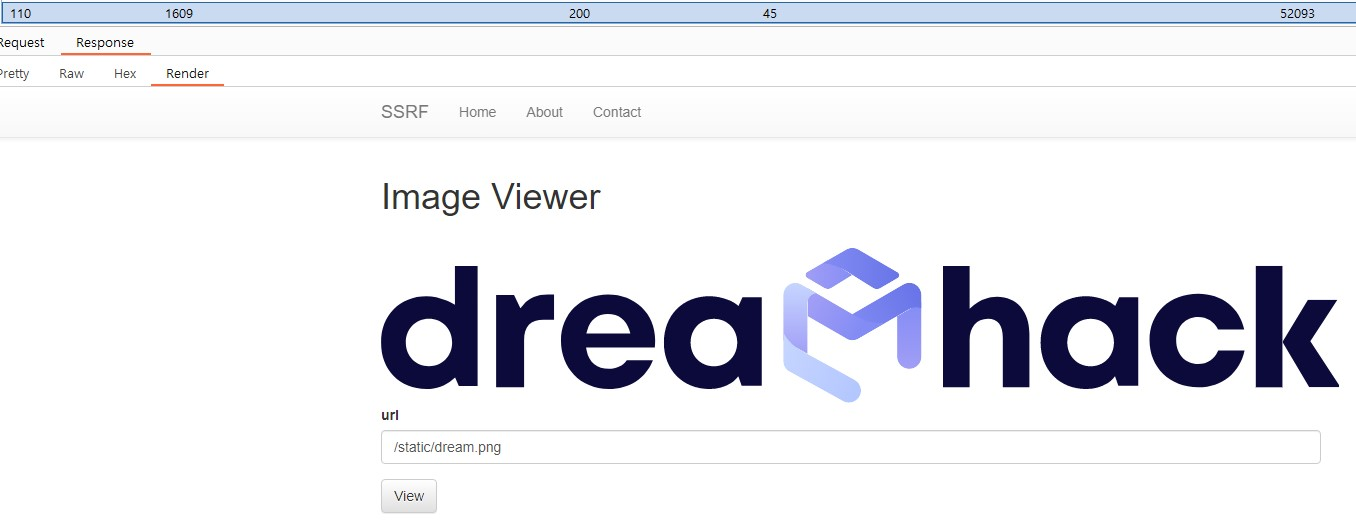
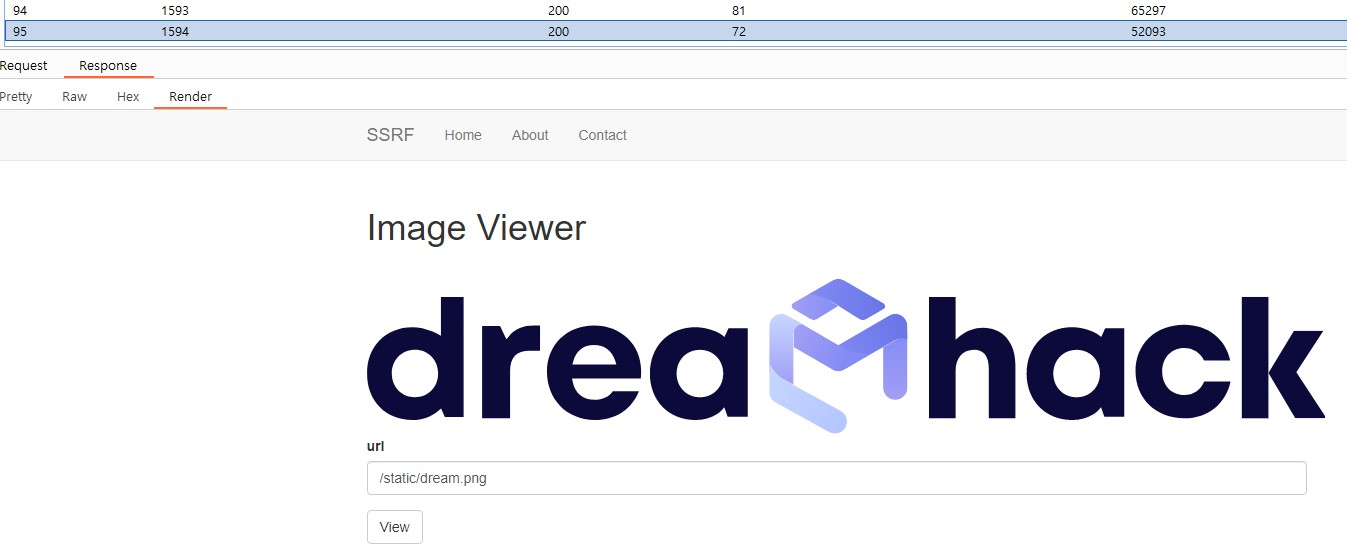
web-ssrf 풀이 내용 추가

diff --git a/Web Hacking/8. Server Side Request Forgery (SSRF)/2. web-ssrf/풀이.md b/Web Hacking/8. Server Side Request Forgery (SSRF)/2. web-ssrf/풀이.md
@@ -1,5 +1,7 @@
 문제는 **flask로 작성된 image viewer 서비스 입니다. SSRF 취약점을 이용해 플래그를 획득하세요. 플래그는 /app/flag.txt에 있습니다.** 입니다.  
-우선 코드를 보겠습니다.  
+
+다음은 문제에서 주어진 코드이다.  
+
 ```python
 #!/usr/bin/python3
 from flask import (
@@ -54,7 +56,6 @@ local_port = random.randint(1500, 1800)
 local_server = http.server.HTTPServer(
     (local_host, local_port), http.server.SimpleHTTPRequestHandler
 )
-print(local_port)
 
 
 def run_local_server():
@@ -65,14 +66,27 @@ threading._start_new_thread(run_local_server, ())
 
 app.run(host="0.0.0.0", port=8000, threaded=True)
 ```
+
 <img src="1.jpg"> <img src="2.jpg">  
-1. '/' : index.html 을 render 하는 엔드포인트
-2. 'img_viewer' : 경로를 입력받아서 **파일이 있으면 보여주고**, **없거나 일정시간이 지났지만 응답이 없다**면 **error.png**를 띄운다.  
+
+# (1) /
+
+index.html 을 render 하는 엔드포인트  
+
+# (2) img_viewer
+
+경로를 입력받아서 **파일이 있으면 보여주고**, **없거나 일정시간이 지났지만 응답이 없다**면 **error.png**를 띄운다.  
 
 <img src="3.jpg"> <img src="4.jpg">  
+
 다음과 같이 파일이 있는 경우, 왼쪽처럼 보여주고, 없다면 error.png를 띄운다.  
 
-처음에 문제를 풀다가 어려워서 막막했지만, 코드를 보면서 뜬금없는 코드를 봤다.  
+처음에 문제를 풀다가 어려워서 막막했다. 그러나 고민을 하면서 생각한 가설이 있었다.  
+
+우선 문제에서 부터 **SSRF 취약점**에 대한 문제였기 때문에, 일단 img_viewer 에 **어떠한 url** 을 넣어서 flag를 출력하게 하는 방식이라고 생각했다.  
+
+그런데 코드를 보면서 뜬금없는 코드를 봤다.  
+
 ```python
 local_host = "127.0.0.1"
 local_port = random.randint(1500, 1800)
@@ -80,42 +94,50 @@ local_server = http.server.HTTPServer(
     (local_host, local_port), http.server.SimpleHTTPRequestHandler
 )
 ```
-이 코드를 봤을 때, local_host와 port 를 지정하는 것을 봐서, 저 **url에 있는 flag.txt** 를 찾아야한다고 생각했다.  
+
+이 코드를 봤을 때, local_host와 port 를 지정하는 것을 봐서, 저 **지정한 host, port에 있는 flag.txt** 를 찾아야한다고 생각했다.  
+
 ```python
 elif ("localhost" in urlp.netloc) or ("127.0.0.1" in urlp.netloc):
     data = open("error.png", "rb").read()
     img = base64.b64encode(data).decode("utf8")
     return render_template("img_viewer.html", img=img)
 ```
-위의 코드를 보고, **localhost 나 127.0.0.1** 을 입력받은 경우, 그냥 **error.png를 띄우는 것**을 보고 확신했다.  
-결론적으로 **port 번호를 brute force를 통해 알아내고**, **127.0.0.1 이나 localhost 를 우회**하면 된다고 생각했습니다.  
+
+위의 코드를 보고, **localhost 나 127.0.0.1** 을 입력받은 경우, **error.png를 띄우는 것**을 보고 확신했다.  
+
+결론적으로 **port 번호를 brute force를 통해 알아내고**, **127.0.0.1 이나 localhost 를 우회**하면 된다고 생각했다.  
+
 1. 127.0.0.1 이나 localhost 우회하는 방법(https://nameng.tistory.com/160 참고)  
 이 문제를 풀때, 127.0.0.1 대신에 **Localhost** 를 이용해 우회했다.
+
 2. port 번호 알기(1500 ~ 1800 brute force)  
-burp suite를 사용해서 brute force 를 했습니다.
+burp suite를 사용해서 **brute force** 를 했다.
 
 <img src="5.jpg"> <img src="6.jpg">  
-왼쪽처럼 request message 를 port 번호만 바꿔서 보냈고, 오른쪽 그림처럼 port 번호가 **1609** 일 때, 그림이 정상적으로 나왔습니다.  
-따라서 **http://Localhost:1609/flag.txt** 를 적어서 flag 를 얻을 수 있습니다.  
+
+왼쪽처럼 request message 를 port 번호만 바꿔서 보냈고, 오른쪽 그림처럼 port 번호가 **1594** 일 때, 그림이 정상적으로 나왔다.  
+
+따라서 **http://Localhost:1594/flag.txt** 를 적어서 flag 를 얻을 수 있다.  
 
 <img src="7.jpg">  
-그래서 다음과 같이 적어서 버튼을 눌렀습니다.  
+
+그래서 다음과 같이 적어서 버튼을 눌렀다.  
 
 <img src="8.jpg">  
-그런데, 이미지가 깨졌습니다??  
+
+그런데, 이미지가 깨졌다.  
 
 ```python
 img = base64.b64encode(data).decode("utf8")
 ```
 
-왜나하면, try 문에서 파일을 **base64로 encode 해서** 주기 때문에, 저희가 이 값을 개발자도구에서 찾고, **decode를 해야합니다.**   
+왜나하면, try 문에서 파일을 **base64로 encode 해서** 주기 때문에, 저희가 이 값을 개발자도구에서 찾고, **decode를 해야한다.**   
 
 <img src="9.jpg">  
 
-다음과 같이 **REh7NDNkZDIxODkwNTY0NzVhN2YzYmQxMTQ1NmExN2FkNzF9** 를 찾을 수 있고, 이를 decode 하면 답이 나옵니다.  
+다음과 같이 **REh7NDNkZDIxODkwNTY0NzVhN2YzYmQxMTQ1NmExN2FkNzF9** 를 찾을 수 있고, 이를 decode 하면 답이 나온다.  
 
 <img src="10.jpg">  
 
-답은 **DH{43dd2189056475a7f3bd11456a17ad71}** 입니다.  
-
-
+답은 **DH{43dd2189056475a7f3bd11456a17ad71}** 이다.  
